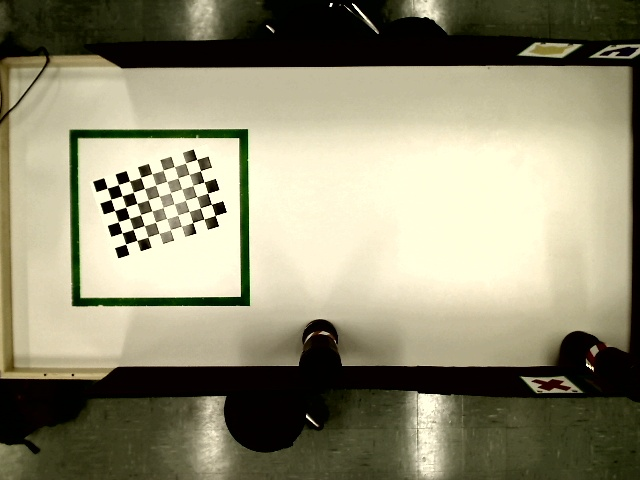
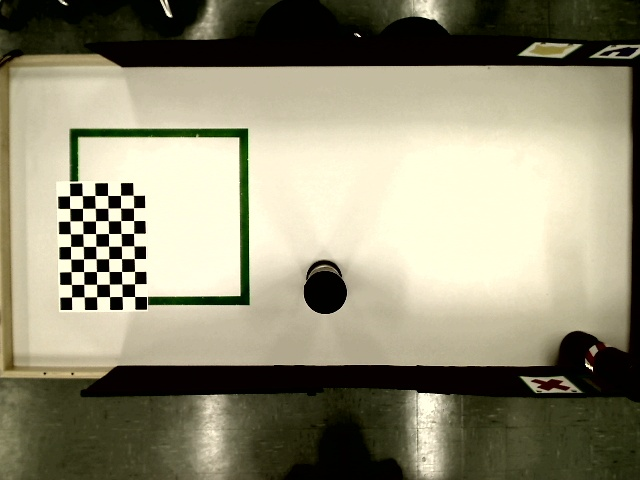
Added new images and configuration

diff --git a/camera_calibration.py b/camera_calibration.py
@@ -5,42 +5,42 @@ import glob
 # termination criteria
 criteria = (cv2.TERM_CRITERIA_EPS + cv2.TERM_CRITERIA_MAX_ITER, 30, 0.001)
 
-# prepare object points, like (0,0,0), (1,0,0), (2,0,0) ....,(6,5,0)
-objp = np.zeros((6 * 9, 3), np.float32)
-objp[:, :2] = np.mgrid[0:9, 0:6].T.reshape(-1, 2)
-
 # Arrays to store object points and image points from all the images.
 objpoints = []  # 3d point in real world space
 imgpoints = []  # 2d points in image plane.
 gray_image = None
 
+def create_object_points():
+    object_points = np.zeros((6 * 9, 3), np.float32)
+    object_points[:, :2] = np.mgrid[0:9, 0:6].T.reshape(-1, 2)
+    return object_points
 
-def find_chessboard(frame):
+def find_chessboard(frame, object_points):
     gray = cv2.cvtColor(frame, cv2.COLOR_BGR2GRAY)
 
     has_corners, corners = cv2.findChessboardCorners(gray, (9, 6), None)
 
     if has_corners:
-        objpoints.append(objp)
+        objpoints.append(object_points)
 
         cv2.cornerSubPix(gray, corners, (5, 5), (-1, -1), criteria)
         imgpoints.append(corners)
 
-        # frame = cv2.drawChessboardCorners(frame, (9, 6), corners, has_corners)
+        frame = cv2.drawChessboardCorners(frame, (9, 6), corners, has_corners)
 
     return frame
 
 
-def calibrate_from_pictures():
+def calibrate_from_pictures(object_points):
     images = glob.glob('calibration/*.jpg')
 
     for image_filename in images:
         image = cv2.imread(image_filename)
 
-        image = find_chessboard(image)
+        image = find_chessboard(image, object_points)
 
-        # cv2.imshow("Image", image)
-        # cv2.waitKey(1000)
+        cv2.imshow("Image", image)
+        cv2.waitKey(1000)
 
 
 def calibrate_from_video_capture():
@@ -69,16 +69,16 @@ def draw(img, corners, imgpts):
     img = cv2.drawContours(img, [imgpts[:4]], -1, (0, 255, 0), -3)
 
     # draw pillars in blue color
-    for i, j in zip(range(4), range(4, 8)):
-        img = cv2.line(img, tuple(imgpts[i]), tuple(imgpts[j]), (255), 3)
+    #for i, j in zip(range(4), range(4, 8)):
+        #img = cv2.line(img, tuple(imgpts[i]), tuple(imgpts[j]), (255), 3)
 
     # draw top layer in red color
-    img = cv2.drawContours(img, [imgpts[4:]], -1, (0, 0, 255), 3)
+    #img = cv2.drawContours(img, [imgpts[4:]], -1, (0, 0, 255), 3)
 
     return img
 
-def build_square_tower(x, y, height):
-    size = 3
+def build_cube(x, y, height):
+    size = 12.8
 
     return np.float32([[x, y, 0],
                        [x, y + size, 0],
@@ -91,25 +91,37 @@ def build_square_tower(x, y, height):
                        [x + size, y, -height]])
 
 if __name__ == "__main__":
-    # calibrate_from_video_capture()
+    objp = create_object_points()
 
-    calibrate_from_pictures()
+    calibrate_from_pictures(objp)
 
-    axis = build_square_tower(0, 0, 4)
+    cube_object_points = build_cube(0.1, 0.7955, 0)
 
-    image = cv2.imread("./calibration/image1.jpg")
+    image = cv2.imread("./calibration/image0.jpg")
     image = cv2.cvtColor(image, cv2.COLOR_BGR2GRAY)
 
     has_corners, corners = cv2.findChessboardCorners(image, (9, 6), None)
     corners2 = cv2.cornerSubPix(image, corners, (5, 5), (-1, -1), criteria)
 
-    ret, mtx, dist, rvecs, tvecs = cv2.calibrateCamera(objpoints, imgpoints, image.shape[::-1], None, None)
+    ret, intrinsic_matrix, distortion_matrix, rotation_vectors, translation_vectors = cv2.calibrateCamera(
+        objpoints, imgpoints, image.shape[::-1], None, None)
 
-    imgpts, jac = cv2.projectPoints(axis, np.array(rvecs[1]), np.array(tvecs[1]), mtx, dist)
+    cube_image_points, jacobian = cv2.projectPoints(
+        cube_object_points, 
+        np.array(rotation_vectors[0]), 
+        np.array(translation_vectors[0]), 
+        intrinsic_matrix, 
+        distortion_matrix)
 
-    image = cv2.imread('./calibration/image9.jpg')
+ 
+    image = cv2.imread('./calibration/image14.jpg')
 
-    img = draw(image, corners2, imgpts)
+    h,  w = image.shape[:2]
+    newcameramtx, roi=cv2.getOptimalNewCameraMatrix(intrinsic_matrix,distortion_matrix,(w,h),0,(w,h))
 
-    cv2.imshow('Pose', img)
+    image = cv2.undistort(image, intrinsic_matrix, distortion_matrix, None, None)
+
+    image = draw(image, corners2, cube_image_points)
+
+    cv2.imshow('Pose', image)
     cv2.waitKey()

diff --git a/collect_images.py b/collect_images.py
@@ -8,7 +8,7 @@ print("FPS: {}".format(cap.get(cv2.CAP_PROP_FPS)))
 
 raw_dir = os.listdir('./raw')
 
-index = 0
+index = 14
 
 while True:
     ret, frame = cap.read()
